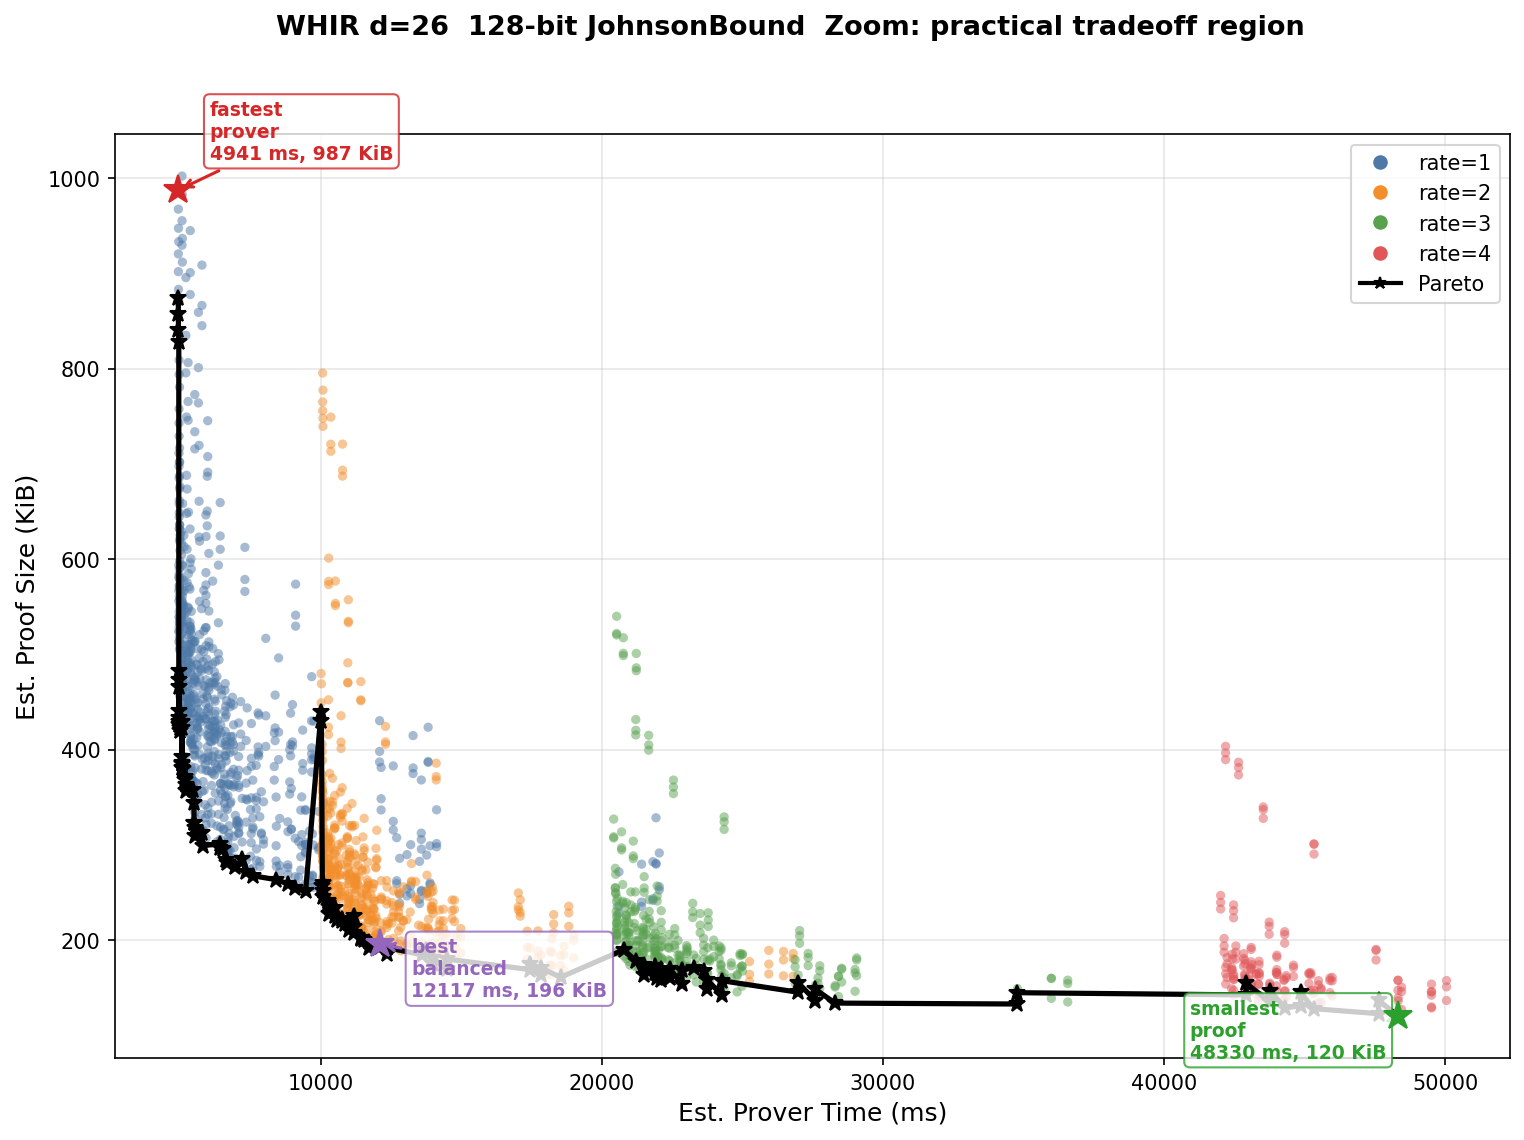
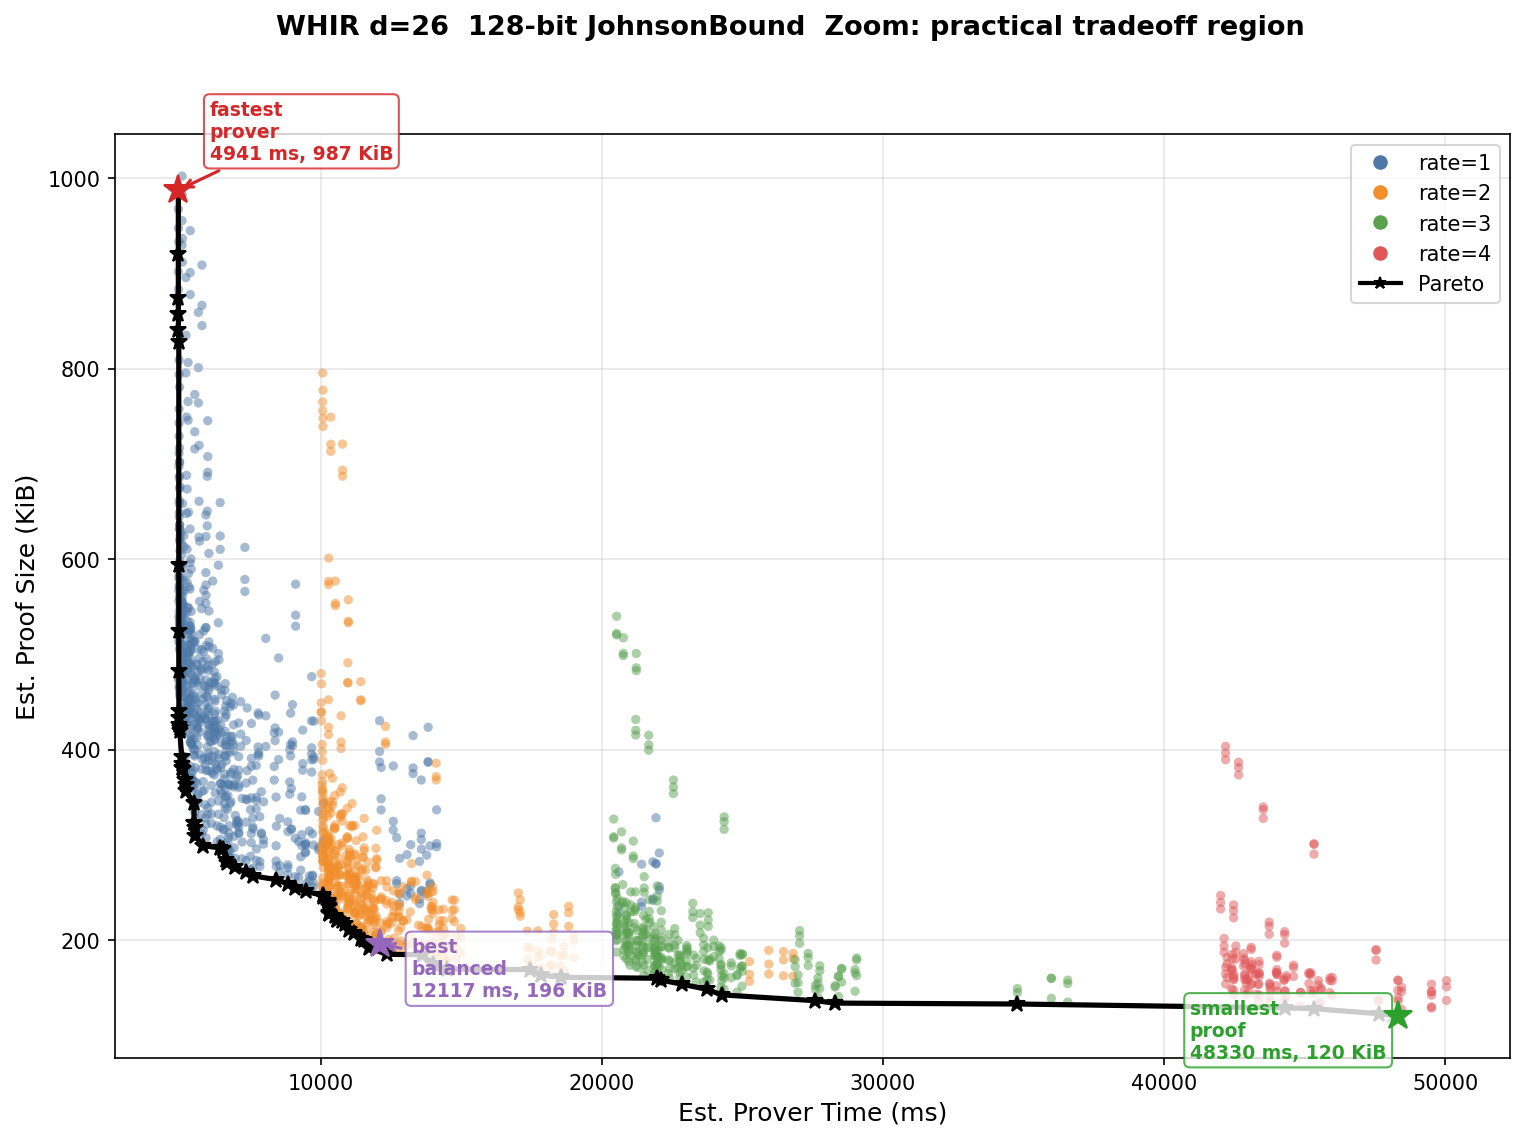
fix(whir): use 2D Pareto frontier on zoomed plot to avoid spikes
The zoomed plot previously projected the 3D Pareto frontier onto 2D,
which created confusing upward spikes when a point with poor proof size
survived due to excellent verifier cost. Now it computes a proper 2D
frontier (prover time vs proof size only), producing a clean monotonically
decreasing staircase.

diff --git a/whir/scripts/whir_optimizer.py b/whir/scripts/whir_optimizer.py
@@ -1271,6 +1271,11 @@ def plot_results(configs: list, frontier: list, args):
     print(f"\nPlot saved to {outfile}")
 
     # Zoomed plot: prover vs size in the practical region.
+    #
+    # Unlike the three-panel overview (which uses the 3D Pareto frontier),
+    # this plot shows the **2D Pareto frontier** over prover time and proof
+    # size only. This avoids confusing spikes that appear when a 3D frontier
+    # point has excellent verifier cost but poor prover×size tradeoff.
     fig2, ax2 = plt.subplots(1, 1, figsize=(12, 8))
     fig2.suptitle(
         f"WHIR d={args.num_variables}  {args.security}-bit {args.soundness}  "
@@ -1296,14 +1301,28 @@ def plot_results(configs: list, frontier: list, args):
 
     ax2.scatter(zp, zs, c=zc, alpha=0.5, s=20, edgecolors="none")
 
-    # Overlay the Pareto frontier (clipped to the zoomed region).
-    zfp = [
+    # Compute the 2D Pareto frontier (prover time vs proof size only).
+    # A point is non-dominated in 2D if no other point is both faster
+    # AND smaller. This produces a clean monotonically decreasing staircase.
+    pts_2d = [
         (c.est_prover_ms, c.est_proof_size_bytes / 1024, c)
-        for _, _, _, c in frontier
-        if c.est_prover_ms <= max(zp, default=1) * 1.1
-        and c.est_proof_size_bytes / 1024 <= max(zs, default=1) * 1.1
+        for c in configs
     ]
-    zfp.sort()
+    pts_2d.sort(key=lambda x: x[0])
+    frontier_2d = []
+    best_size = float("inf")
+    for p, s, c in pts_2d:
+        if s < best_size:
+            frontier_2d.append((p, s, c))
+            best_size = s
+
+    # Clip to the zoomed region.
+    zfp = [
+        (p, s, c)
+        for p, s, c in frontier_2d
+        if p <= max(zp, default=1) * 1.1
+        and s <= max(zs, default=1) * 1.1
+    ]
     if zfp:
         ax2.plot(
             [x[0] for x in zfp],
